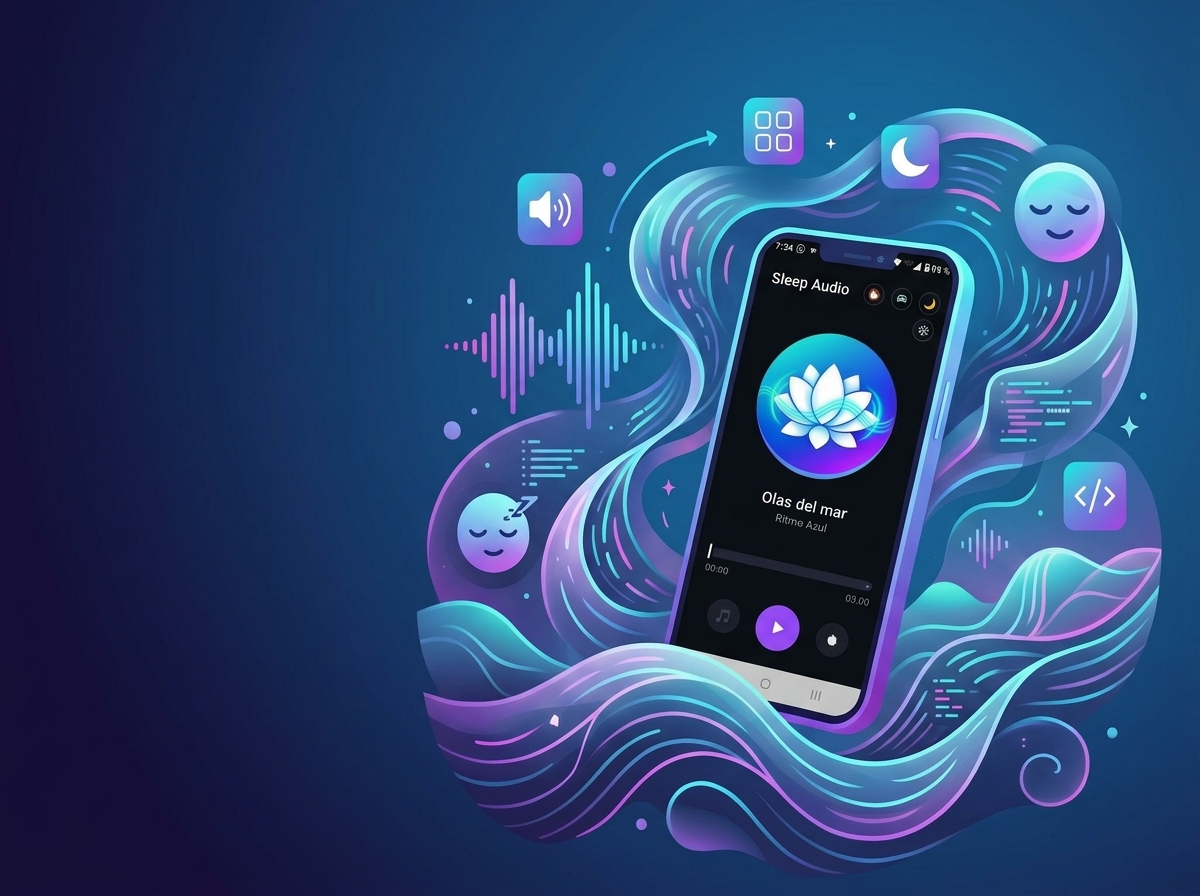
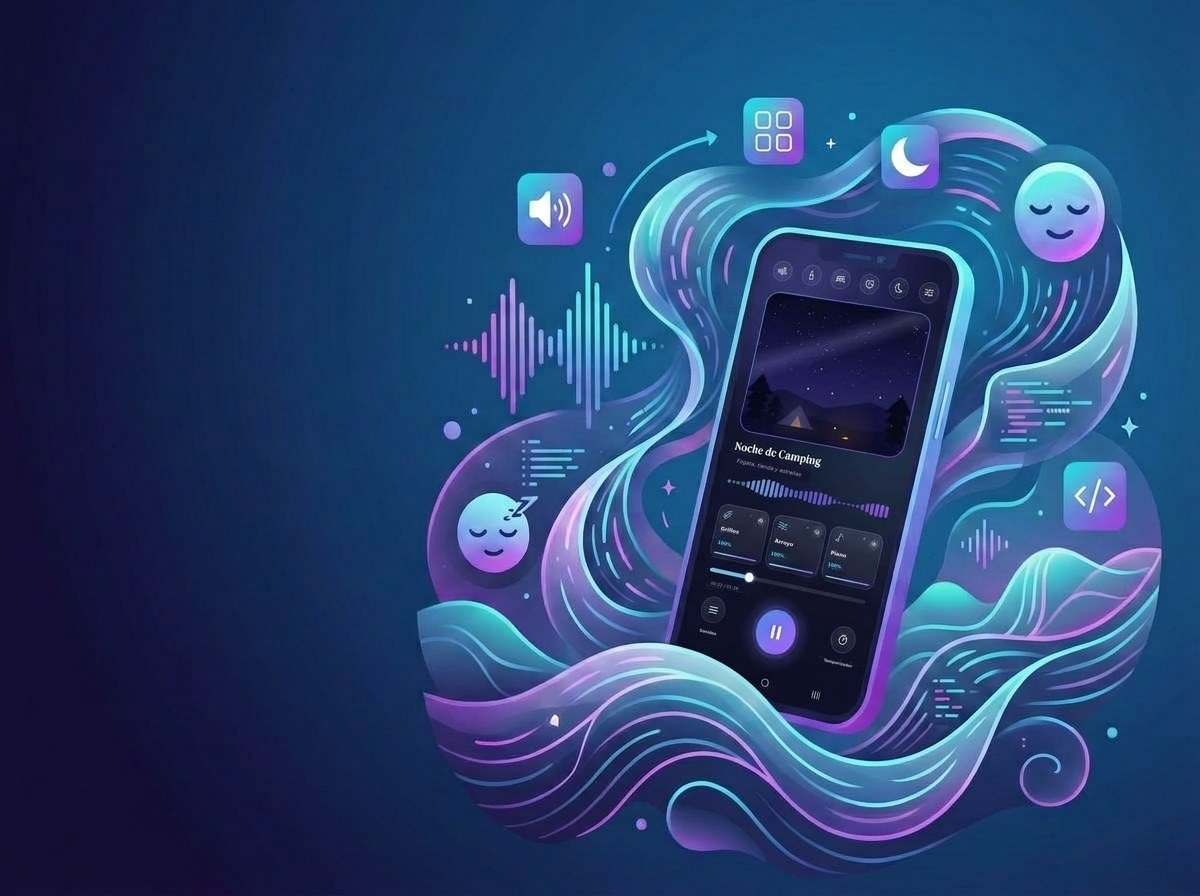
cambio imagen reproductor

diff --git a/index.html b/index.html
@@ -71,7 +71,7 @@
   <header class="hero inicio">
     <!-- Imagen de fondo: ocupa la derecha y se funde con la página -->
     <div class="hero-fondo">
-      <img src="./assets/hero.jpg" alt="Sleep Audio en el móvil">
+      <img src="./assets/hero.jpg?v=21" alt="Sleep Audio en el móvil con el ambiente Noche de Camping">
     </div>
     <div class="wrap">
       <div class="hero-texto">
